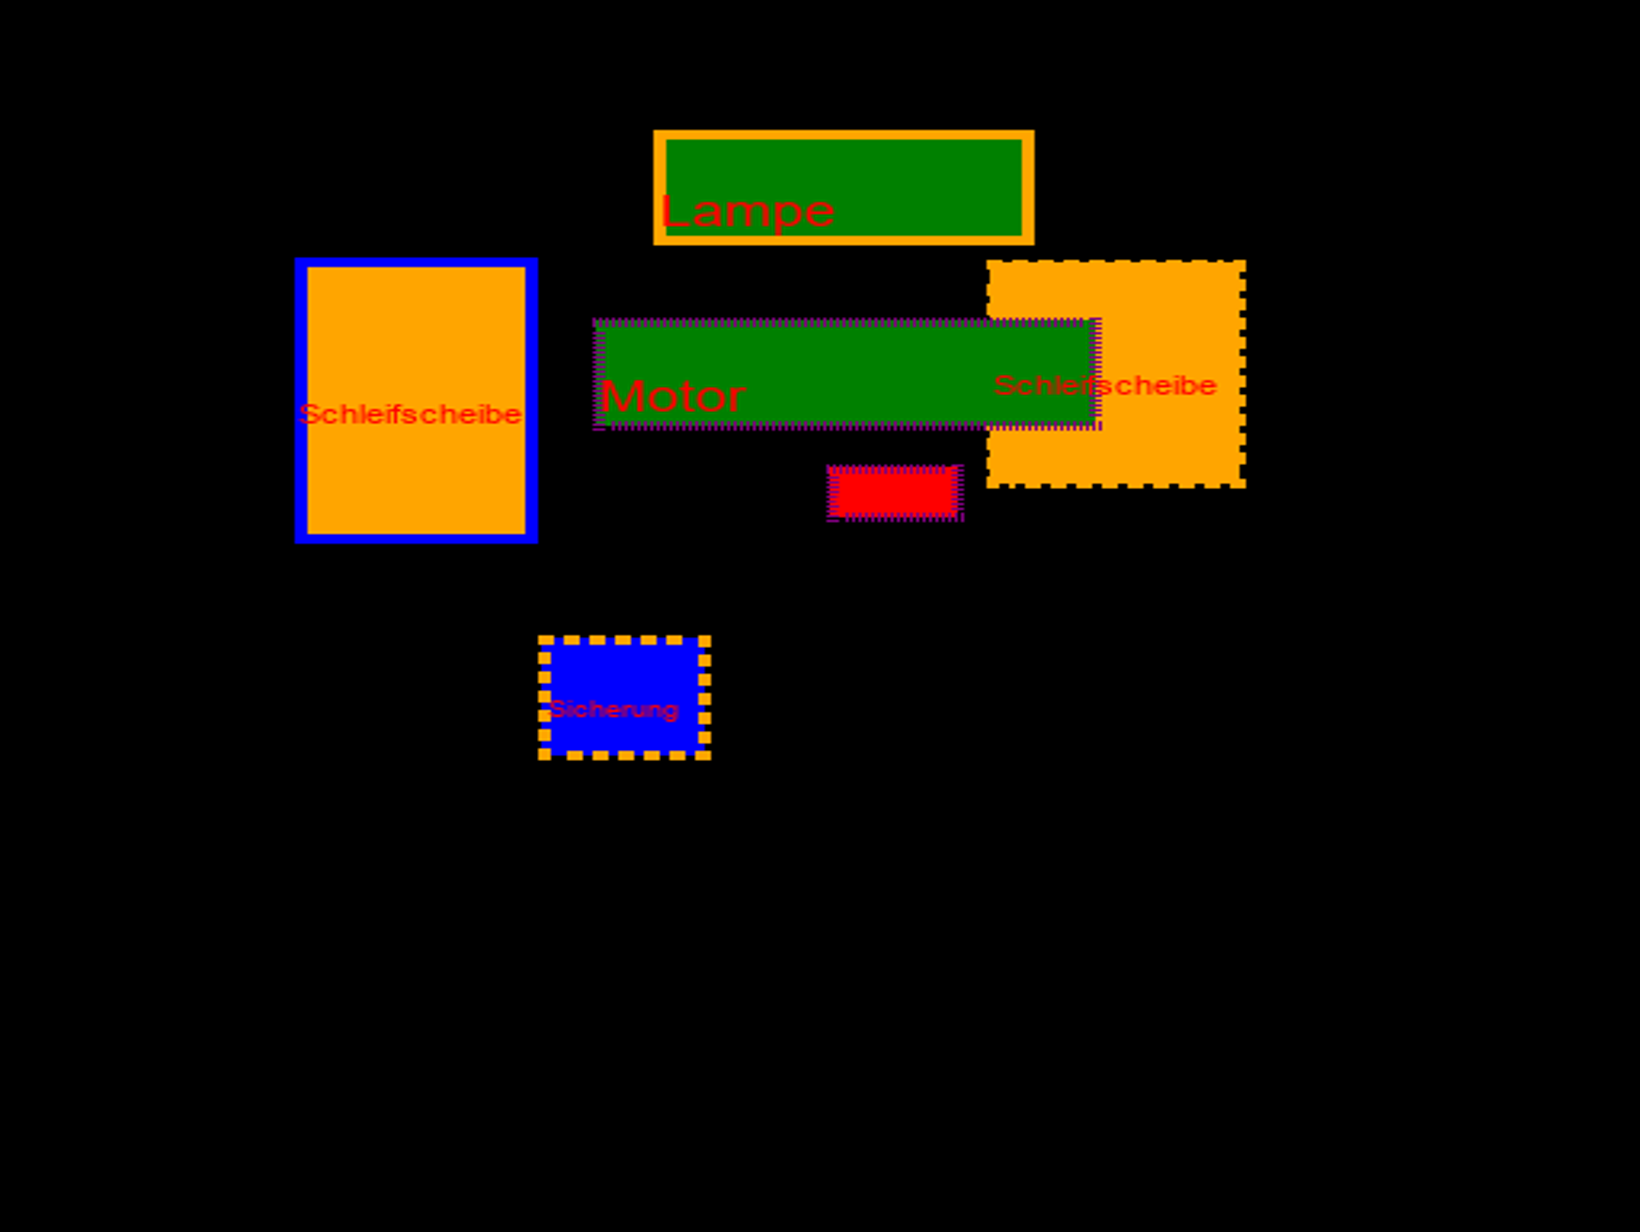
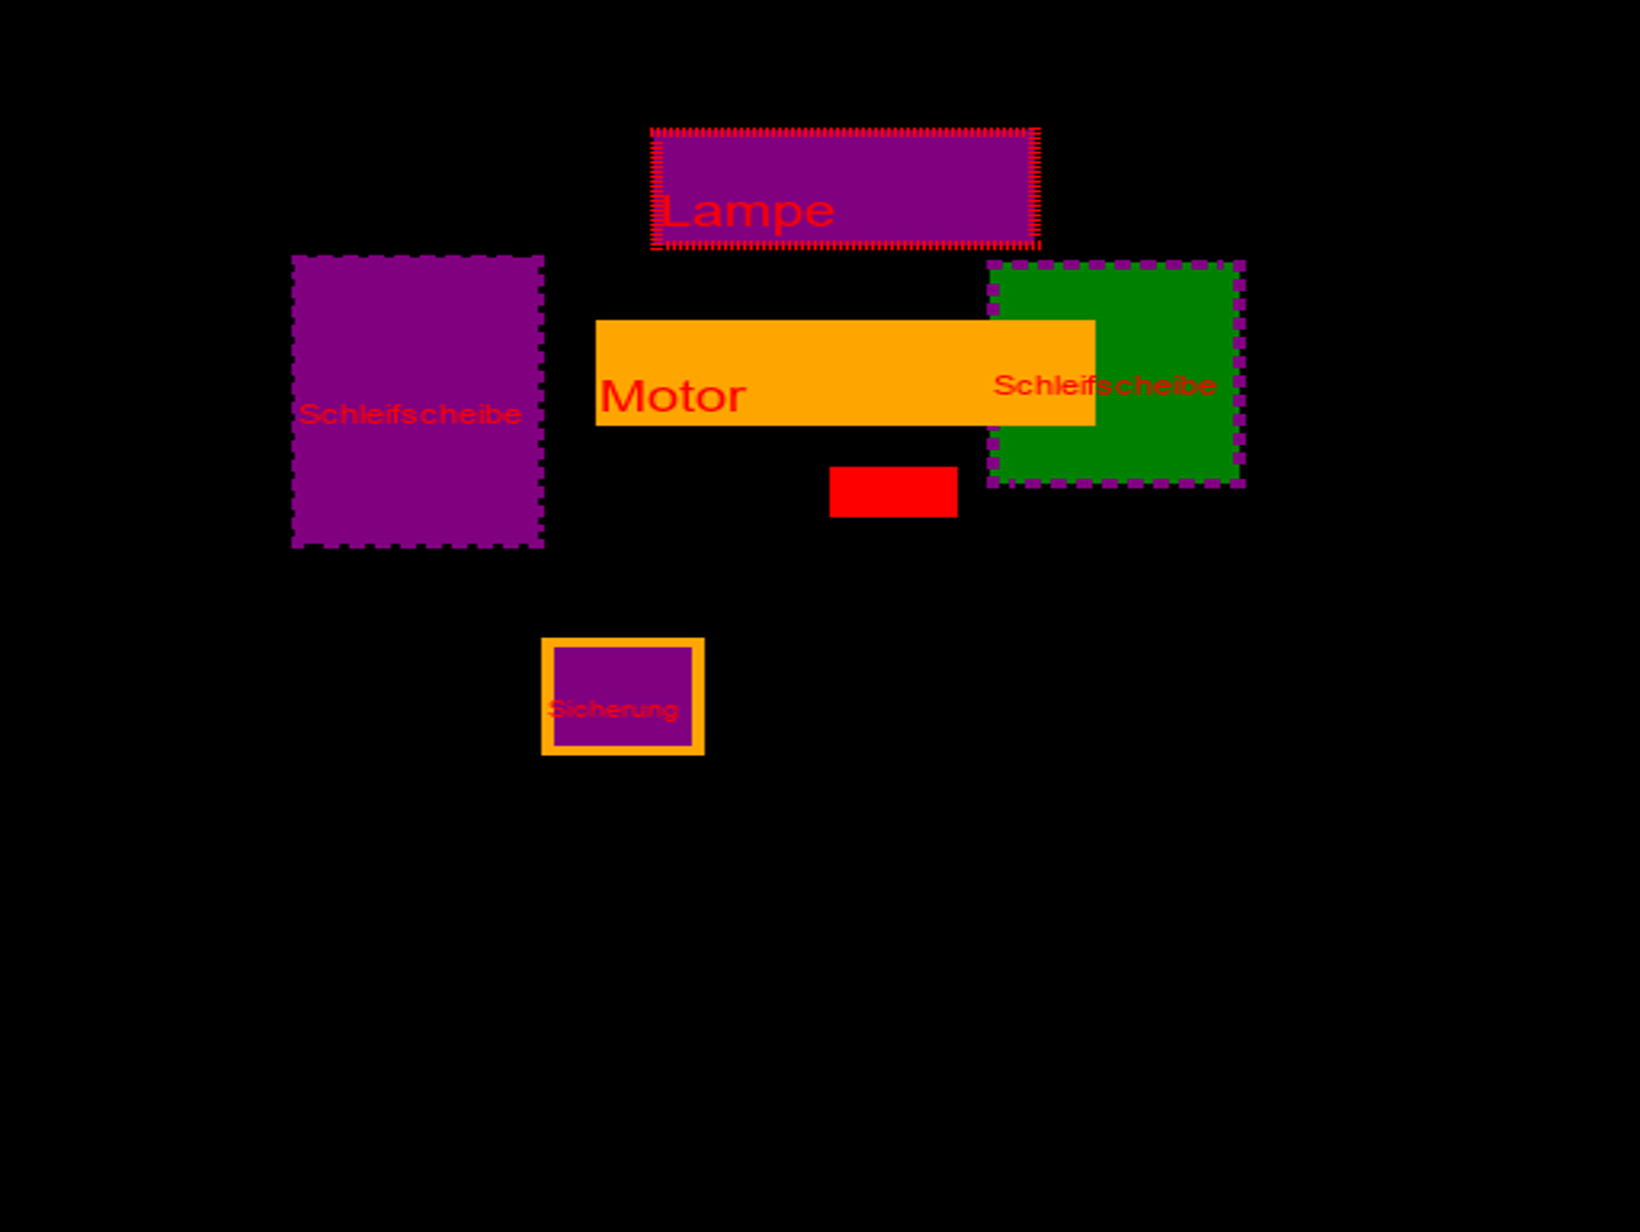
Add blinking box effect and improve image update timing
Introduces a blinking effect for bounding boxes in generate_box_image.py by generating a secondary image with selected boxes omitted, and updates the run_loop in fullscreen_image.py to alternate between the two images at a faster interval (0.25s). Also refactors drawing functions to support the new blinking logic and updates output image generation accordingly.

Changed region(s): [[0.1555, 0.0925, 0.7774, 0.4627], [0.311, 0.4935, 0.4354, 0.6169]]

diff --git a/raspberry/generate_box_image.py b/raspberry/generate_box_image.py
@@ -110,24 +110,29 @@ class boxDrawer:
         self.last_csv = 0
         
 # modified function from object_detection.utils.visualization_utils
-    def draw_bounding_box(self,image, xmin, xmax, ymin, ymax, thickness, display_str_list):
+    def draw_bounding_box(self,image, blinking_image, xmin, xmax, ymin, ymax, thickness, blinking):
         box_color = random.choice(["red", "green", "blue", "purple", "orange"])
         box=[xmin, ymin, xmax, ymax]
         draw = ImageDraw.Draw(image)
+        if not blinking:
+            blinking_draw = ImageDraw.Draw(blinking_image)
         im_width, im_height = image.size
         (left, right, top, bottom) = (xmin, xmax, ymin, ymax)
-        #draw.line([(left, top), (left, bottom), (right, bottom),
-        #(right, top), (left, top)], width=thickness, fill=self.box_color)
+
         draw.rectangle(box, outline=box_color, width=thickness, fill=box_color)
+        if not blinking:
+            blinking_draw.rectangle(box, outline=box_color, width=thickness, fill=box_color)
            
         
-    def add_text(self,image, xmin, xmax, ymin, ymax, thickness, display_str_list):
+    def add_text(self,image, blinking_image, xmin, xmax, ymin, ymax, thickness, display_str_list, blinking):
         (left, right, top, bottom) = (xmin, xmax, ymin, ymax)
         try:
             font = ImageFont.truetype('arial.ttf', 18)
         except IOError:
             font = ImageFont.load_default()
         draw = ImageDraw.Draw(image)
+        if not blinking:
+            blinking_draw = ImageDraw.Draw(blinking_image)
         text_bottom = top
         # Reverse list and print from bottom to top.
         for display_str in display_str_list[::-1]:
@@ -143,49 +148,45 @@ class boxDrawer:
                     check = True
                 else:
                     font = ImageFont.truetype('arial.ttf', font.size - 1)
-                    
+            if not blinking:
+                blinking_draw.text([left + margin, (top + bottom) / 2],
+                display_str,
+                fill=self.text_color,
+                font=font)        
             draw.text([left + margin, (top + bottom) / 2],
                 display_str,
                 fill=self.text_color,
                 font=font)
-            #draw.text(
-            #    (left + margin, text_bottom - text_height - margin),
-            #    display_str,
-            #    fill=self.text_color,
-            #    font=font)
+            
             text_bottom -= text_height - 2 * margin
             
             avg_x = (xmin + xmax) / 2
             avg_y = (ymin + ymax) / 2
             size = 2
             
-    def add_outlines(self,image, xmin, xmax, ymin, ymax, thickness, display_str_list):
+    def add_outlines(self,image, blinking_image, xmin, xmax, ymin, ymax, thickness):
         (left, right, top, bottom) = (xmin, xmax, ymin, ymax)
         box_edge = random.choice(["none", "dashed", "dotted", "solid"])
         outline_color = random.choice(["red", "green", "blue", "purple", "orange"])
-        print(f"Box edge style: {box_edge}")   
+
         if box_edge == "none":
             pass
         else:
             d = DashedImageDraw(image)
+            bd = DashedImageDraw(blinking_image)
             if box_edge == "dashed":
+                bd.dashed_rectangle([(left, top), (right, bottom)], dash = (5, 3), outline  = outline_color, width = 4)
                 d.dashed_rectangle([(left, top), (right, bottom)], dash = (5, 3), outline  = outline_color, width = 4)
             elif box_edge == "dotted":
+                bd.dashed_rectangle([(left, top), (right, bottom)], dash = (1, 1), outline  = outline_color, width = 4)
                 d.dashed_rectangle([(left, top), (right, bottom)], dash = (1, 1), outline  = outline_color, width = 4)
             elif box_edge == "solid":
                 draw = ImageDraw.Draw(image)
+                blinking_draw = ImageDraw.Draw(blinking_image)
+                blinking_draw.rectangle([(left, top), (right, bottom)], outline= outline_color, width=4, fill=None)
                 draw.rectangle([(left, top), (right, bottom)], outline= outline_color, width=4, fill=None)
+                    
                 
-    def add_blinking_box(self, image, xmin, xmax, ymin, ymax, thickness, display_str_list):
-        (left, right, top, bottom) = (xmin, xmax, ymin, ymax)
-        draw = ImageDraw.Draw(image)
-        threshold = 0.6  # Adjust this threshold as needed
-        if random.uniform(0, 1) >= threshold:
-            # Draw a blinking box
-            draw.rectangle([(left, top), (right, bottom)], outline=None, width=thickness, fill= "black")
-        
-            
-        
     def check_new_csv(self):
         if os.path.isfile("image.csv"):
             if os.path.getmtime("image.csv") > self.last_csv:
@@ -195,9 +196,17 @@ class boxDrawer:
 
     def run(self, csv_path):
         image = Image.new('RGB', (512, 512), (0, 0, 0))
+        blinking_image = Image.new('RGB', (512, 512), (0, 0, 0))
+        threshold = 0.6  # Adjust this threshold as needed
+        blinking_indices = []
+                
         try:
             df = pd.read_csv(csv_path)
             df.columns = ['numbers','detection_scores','class', 'x min', 'y min', 'x max', 'y max']
+
+            df['sizes'] = (df['x max'] - df['x min']) * (df['y max'] - df['y min'])
+            
+            df = df.sort_values(by='sizes', ascending=True)
 
             classes = df['class']
             det_scores = df['detection_scores']
@@ -206,24 +215,25 @@ class boxDrawer:
             x_max = df['x max']
             y_max = df['y max']
 
-            sizes = []
             for i in range(len(classes)):
-                sizes.append((x_max[i] - x_min[i]) * (y_max[i] - y_min[i]))
-            
-            df['sizes'] = sizes
-            
-            df = df.sort_values(by='sizes', ascending=False)
-            
-            for i in range(len(classes)):
-                name = classes[i]
-            
-                self.draw_bounding_box(image, x_min[i], x_max[i], y_min[i], y_max[i], 4, (name,''))
-                self.add_outlines(image, x_min[i], x_max[i], y_min[i], y_max[i], 4, (name,''))
-            
-            for i in range(len(classes)):
-                name = classes[i]
+                if random.uniform(0, 1) >= threshold:
+                    blinking_indices.append(i)
                 
-                self.add_text(image, x_min[i], x_max[i], y_min[i], y_max[i], 4, (name,''))
+            for i in range(len(classes)):
+                name = classes[i]
+                blinking = True
+                if i not in blinking_indices:
+                    blinking = False
+                self.draw_bounding_box(image, blinking_image, x_min[i], x_max[i], y_min[i], y_max[i], 4, blinking)
+                self.add_outlines(image, blinking_image, x_min[i], x_max[i], y_min[i], y_max[i], 4)
+            
+            for i in range(len(classes)):
+                name = classes[i]
+                blinking = True
+                if i not in blinking_indices:
+                    blinking = False
+                
+                self.add_text(image, blinking_image, x_min[i], x_max[i], y_min[i], y_max[i], 4, (name,''), blinking)
                 
             
                
@@ -231,17 +241,12 @@ class boxDrawer:
             pass
         
         if self.resize:
-            new_image = image.resize((1640, 1232))
+            image = image.resize((1640, 1232))
+            blinking_image = blinking_image.resize((1640, 1232))
             
-        new_image.save(f'{csv_path}_out.png')
+        image.save(f'{csv_path}_out.png')
+        blinking_image.save(f'{csv_path}2_out.png')
         
-        for i in range(len(classes)):
-            self.add_blinking_box(image, x_min[i], x_max[i], y_min[i], y_max[i], 4, (classes[i], ''))
-        
-        if self.resize:
-            new_image = image.resize((1640, 1232))
-        
-        new_image.save(f'{csv_path}2_out.png')
     
 
 if __name__ == "__main__":

diff --git a/raspberry/fullscreen_image.py b/raspberry/fullscreen_image.py
@@ -27,8 +27,9 @@ class imageFullscreen:
     def run_loop(self):
         while self.running:
             self.updateImage(Image.open('image.csv_out.png'))
-            time.sleep(0.5)
+            time.sleep(0.25)
             self.updateImage(Image.open('image.csv2_out.png'))
+            time.sleep(0.25)
 
     def close(self):
         self.running = False
